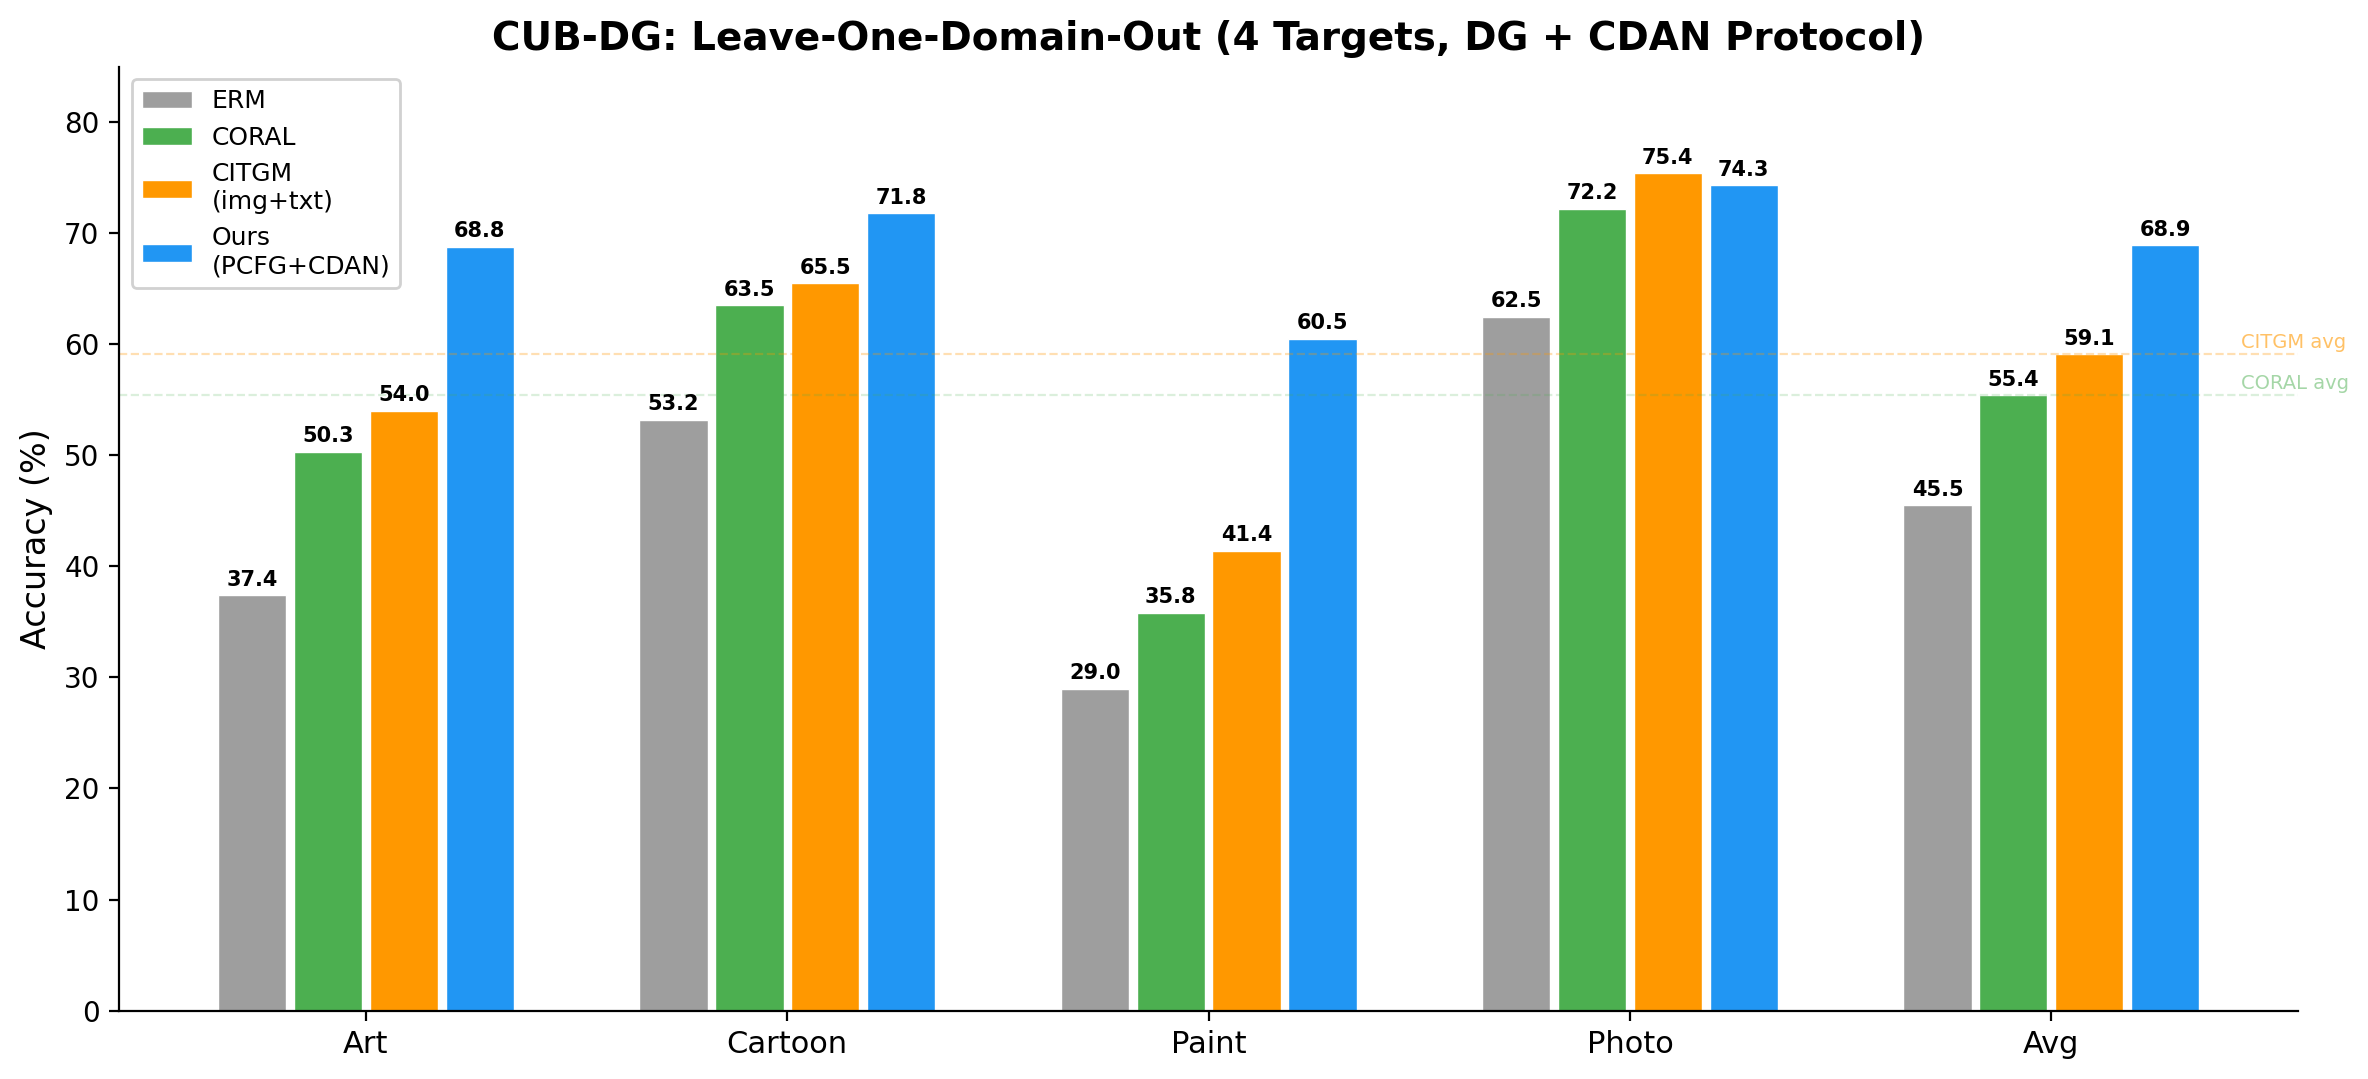
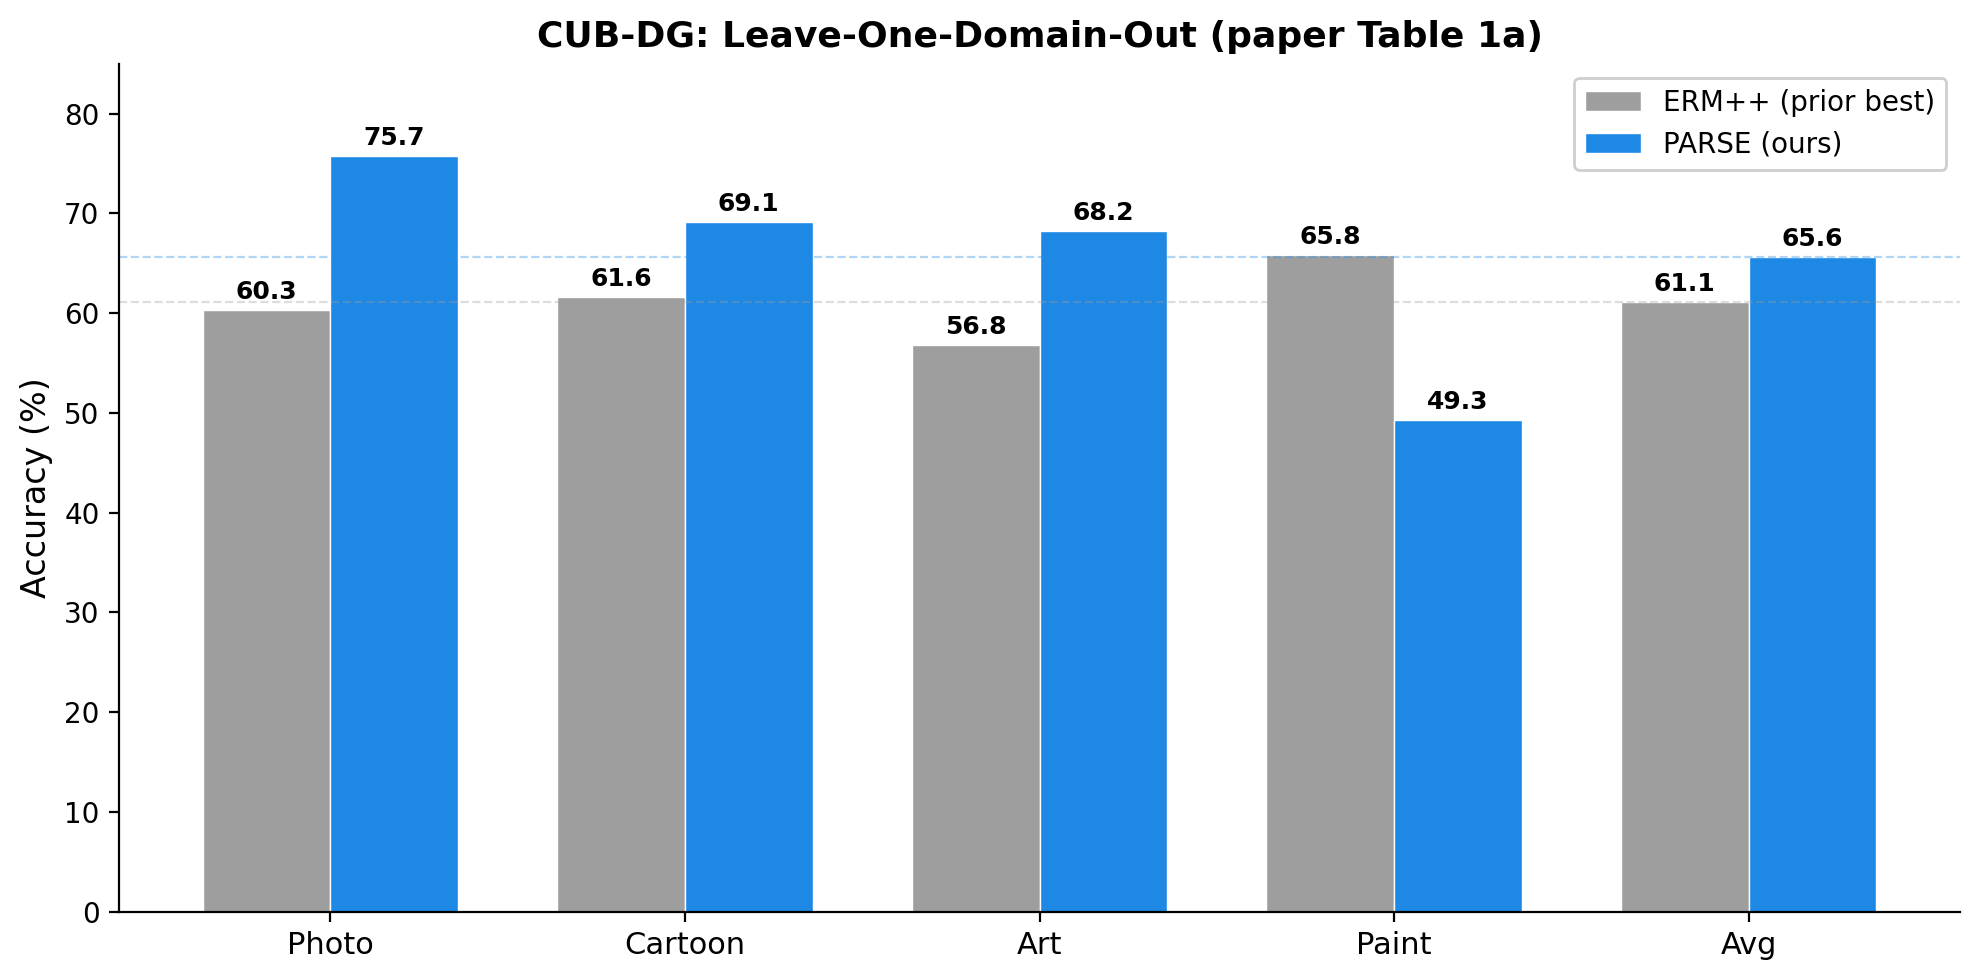
Blog: align with paper, replace fig2 with predicate-arity ablation
- Fix ERM++ Photo: 67.1 -> 60.3 in fig1 and main results table (paper Table 1a)
- Convert main results table to HTML with full per-domain numbers for CORAL/GVRT/ERM++/PARSE
- Replace fig2_pcfg_vs_nopcfg with fig2_arity_ablation (paper Table 2a): No Rel / Binary / +Ternary / +Quaternary / All x 5 domains
- Update grammar section to K=16, add ternary (tri/turn) and quaternary (orient/eqdist) predicates per paper
- Replace fixed-344 production claim with dynamic M ~ 130k, structural compaction (99.3pp pruned, ~956 active per class) per paper Table 2b
- Fix lingering \\ math escapes in aligned blocks

diff --git a/_posts/2026-03-21-neurosymbolic-dg.md b/_posts/2026-03-21-neurosymbolic-dg.md
@@ -8,7 +8,7 @@ header_image: /assets/img/neurosymbolic_dg/thumbnail.png
 
 Here's a question [Duy](https://github.com/Duy-Nguyen-Duc) and I were kicking around: what if you combined a small DSL with a neural network classifier and the classifier head itself *happened* to be domain-invariant by construction? Not as a replacement for adaptation methods like CDAN, but as a much stronger starting point for them.
 
-Turns out it works. We replaced a linear classification layer with a probabilistic context-free grammar over spatial layout programs. The grammar scores spatial relations between detected parts, and those relations don't change when you go from photos to paintings.
+Turns out it works. We replaced a linear classification layer with a probabilistic context-free grammar over spatial layout programs. The grammar scores spatial relations between detected parts, and those relations don't change when you go from photos to paintings. We call this **PARSE** (Primitive-Aware Relational Structure for domain gEneralization); paper at [arXiv:[phone redacted]](https://arxiv.org/abs/[phone redacted]).
 
 Code: [datvo06/NeuroSymbolicDG](https://github.com/datvo06/NeuroSymbolicDG). Checkpoints: [HuggingFace](https://huggingface.co/datvo06/neurosymbolic-da-results).
 
@@ -30,53 +30,102 @@ ResNet-50
 
 The concept bottleneck (1x1 conv + [spatial soft-argmax](https://kornia.readthedocs.io/en/latest/geometry.subpix.html)) forces the network to decompose its representation into $k=8$ spatially localized primitives. Each primitive has a location, bounding box, and confidence. No hand-designed primitive vocabulary; the primitives emerge from end-to-end training.
 
-Same backbone, same data, same everything. Swap the PCFG head for a linear classifier:
+Per the paper's Table 1a, CUB-DG accuracy by target domain:
 
-<img src="{{ '/assets/img/neurosymbolic_dg/fig2_pcfg_vs_nopcfg.png' | relative_url }}" alt="PCFG vs NoPCFG" style="max-width: 100%; height: auto;">
+<table style="border-collapse: collapse; margin: 1em 0; font-size: 0.95em;">
+  <thead>
+    <tr style="border-bottom: 2px solid #444;">
+      <th style="text-align: left; padding: 0.4em 0.8em;">Method</th>
+      <th style="padding: 0.4em 0.8em;">Photo</th>
+      <th style="padding: 0.4em 0.8em;">Cartoon</th>
+      <th style="padding: 0.4em 0.8em;">Art</th>
+      <th style="padding: 0.4em 0.8em;">Paint</th>
+      <th style="padding: 0.4em 0.8em;">Avg</th>
+    </tr>
+  </thead>
+  <tbody>
+    <tr style="border-bottom: 1px solid #ddd;">
+      <td style="padding: 0.4em 0.8em;">CORAL (<a href="https://arxiv.org/abs/1607.01719">Sun &amp; Saenko, 2016</a>)</td>
+      <td style="text-align: center; padding: 0.4em 0.8em;">72.2</td>
+      <td style="text-align: center; padding: 0.4em 0.8em;">63.5</td>
+      <td style="text-align: center; padding: 0.4em 0.8em;">50.3</td>
+      <td style="text-align: center; padding: 0.4em 0.8em;">35.8</td>
+      <td style="text-align: center; padding: 0.4em 0.8em;">55.5</td>
+    </tr>
+    <tr style="border-bottom: 1px solid #ddd;">
+      <td style="padding: 0.4em 0.8em;">GVRT</td>
+      <td style="text-align: center; padding: 0.4em 0.8em;">74.6</td>
+      <td style="text-align: center; padding: 0.4em 0.8em;">64.2</td>
+      <td style="text-align: center; padding: 0.4em 0.8em;">52.2</td>
+      <td style="text-align: center; padding: 0.4em 0.8em;">37.0</td>
+      <td style="text-align: center; padding: 0.4em 0.8em;">57.0</td>
+    </tr>
+    <tr style="border-bottom: 1px solid #ddd;">
+      <td style="padding: 0.4em 0.8em;">ERM++ (prior best)</td>
+      <td style="text-align: center; padding: 0.4em 0.8em;">60.3</td>
+      <td style="text-align: center; padding: 0.4em 0.8em;">61.6</td>
+      <td style="text-align: center; padding: 0.4em 0.8em;">56.8</td>
+      <td style="text-align: center; padding: 0.4em 0.8em;"><strong>65.8</strong></td>
+      <td style="text-align: center; padding: 0.4em 0.8em;">61.1</td>
+    </tr>
+    <tr style="background: #f3f5fb;">
+      <td style="padding: 0.4em 0.8em;"><strong>PARSE</strong></td>
+      <td style="text-align: center; padding: 0.4em 0.8em;"><strong>75.7</strong></td>
+      <td style="text-align: center; padding: 0.4em 0.8em;"><strong>69.1</strong></td>
+      <td style="text-align: center; padding: 0.4em 0.8em;"><strong>68.2</strong></td>
+      <td style="text-align: center; padding: 0.4em 0.8em;">49.3</td>
+      <td style="text-align: center; padding: 0.4em 0.8em;"><strong>65.6</strong></td>
+    </tr>
+  </tbody>
+</table>
 
-| Method | Art | Cartoon | Paint | Avg |
-|--------|-----|---------|-------|-----|
-| NoPCFG+CDAN | 52.4% | 56.2% | 45.7% | 51.4% |
-| **PCFG+CDAN** | **68.8%** | **71.8%** | **60.5%** | **67.0%** |
-| Grammar $\Delta$ | +16.4 | +15.6 | +14.8 | **+15.6** |
++4.5pp over ERM++ on average. The gain concentrates on the harder stylistic domains (Photo, Cartoon, Art); Paint regresses (PARSE 49.3 vs ERM++ 65.8), which I discuss later. Now let me explain what that classifier head actually is.
 
-+15.6pp from changing the classifier head. The gap is remarkably consistent across targets. Now let me explain what that classifier head actually is.
+Same backbone, same data, same everything. Vary the predicate arities the head can use:
+
+<img src="{{ '/assets/img/neurosymbolic_dg/fig2_arity_ablation.png' | relative_url }}" alt="Predicate-arity ablation" style="max-width: 100%; height: auto;">
 
 ## The grammar
 
-A standard classifier ends with a linear layer: backbone features $\to$ class logits. We replace that with a PCFG over a small layout DSL. The DSL has two sorts of terminals:
+A standard classifier ends with a linear layer: backbone features $\to$ class logits. We replace that with a PCFG over a small layout DSL. The DSL has one unary terminal and a family of relations of varying arity:
 
 - **Existence**: $\texttt{has}(j)$ returns the confidence that primitive $j$ is present, a value in $[0,1]$.
-- **Relation**: $\texttt{rel}(r, i, j)$ returns a soft score for the proposition "primitive $i$ is in spatial relation $r$ to primitive $j$."
+- **Binary relation**: $\texttt{rel}(r, i, j)$ for pairwise spatial constraints.
+- **Ternary relation**: $\texttt{rel}_3(r, i, j, k)$ for triangle / chain layouts.
+- **Quaternary relation**: $\texttt{rel}_4(r, i, j, k, \ell)$ for predicates that compare two primitive pairs.
 
-The spatial relations are scored by sigmoid/Gaussian kernels over detected primitive coordinates:
+The binary predicates are scored by sigmoid/Gaussian kernels over detected primitive coordinates:
 
 $$
 \begin{aligned}
-\texttt{above}(i, j) &= \sigma\bigl(\lambda_1 (cy_j - cy_i - m_1)\bigr) \\
-\texttt{left\_of}(i, j) &= \sigma\bigl(\lambda_2 (cx_j - cx_i - m_2)\bigr) \\
-\texttt{near}(i, j) &= \exp\bigl(-\|c_i - c_j\|^2 / 2\rho^2\bigr) \\
-\texttt{aligned\_h}(i, j) &= \exp\bigl(-(cy_i - cy_j)^2 / 2\tau_1^2\bigr) \\
-\texttt{aligned\_v}(i, j) &= \exp\bigl(-(cx_i - cx_j)^2 / 2\tau_2^2\bigr) \\
+\texttt{above}(i, j) &= \sigma\bigl(\lambda_1 (cy_j - cy_i - m_1)\bigr) \\\\
+\texttt{left_of}(i, j) &= \sigma\bigl(\lambda_2 (cx_j - cx_i - m_2)\bigr) \\\\
+\texttt{near}(i, j) &= \exp\bigl(-\|c_i - c_j\|^2 / 2\rho^2\bigr) \\\\
+\texttt{aligned_h}(i, j) &= \exp\bigl(-(cy_i - cy_j)^2 / 2\tau_1^2\bigr) \\\\
+\texttt{aligned_v}(i, j) &= \exp\bigl(-(cx_i - cx_j)^2 / 2\tau_2^2\bigr) \\\\
 \texttt{contains}(i, j) &= \sigma\bigl(\lambda_3 \min(\text{margin}_{ij})\bigr)
 \end{aligned}
 $$
 
-All parameters $(\lambda, m, \tau, \rho)$ are learnable, jointly optimized with the rest of the network. The geometry of "above" and "near" adapts to the data; we don't hand-code thresholds.
+Ternary and quaternary predicates capture geometric patterns that pairwise relations cannot easily express. The two ternary predicates are $\texttt{tri}(i, j, k)$ (interior angle of the triangle formed by three primitives) and $\texttt{turn}(i, j, k)$ (turn angle along a primitive chain). The quaternary predicates compare two primitive pairs: $\texttt{orient}(i, j, k, \ell)$ checks whether vectors $\mathbf{v}_{ij}$ and $\mathbf{v}_{k\ell}$ form a target relative angle (via a soft cosine match), and $\texttt{eqdist}(i, j, k, \ell)$ checks whether $\|\mathbf{v}_{ij}\|$ and $\|\mathbf{v}_{k\ell}\|$ have a target log-ratio. These are pose-and-scale invariants by construction.
 
-Given $k=8$ primitive types and 6 relation types, the universal grammar enumerates all possible spatial constraints:
+All shape parameters $(\lambda, m, \tau, \rho, \text{target angles, target ratios})$ are learnable and jointly optimized with the rest of the network. The *form* of each predicate is locked in but the thresholds adapt.
+
+Given $K=16$ primitives and the predicate vocabulary above, the grammar enumerates all valid spatial compositions (binary applied to ordered pairs, ternary to ordered triples, quaternary to ordered quadruples):
 
 $$
 \begin{aligned}
-\texttt{Constraint} &\to \texttt{has}(p_j) && \text{for } j \in \{0, \ldots, 7\} && \text{(8 productions)} \\
-\texttt{Constraint} &\to \texttt{rel}(r, p_i, p_j) && \text{for } r \in \mathcal{R},\; i \neq j && \text{(6 × 56 = 336 productions)} \\
-\texttt{Layout}_y &\to \texttt{choice}(\texttt{score}(w_1, c_1), \ldots, \texttt{score}(w_{344}, c_{344})) && && \text{(marginalization)}
+\texttt{Constraint} &\to \texttt{has}(p_j) \\\\
+\texttt{Constraint} &\to \texttt{rel}(r, p_i, p_j) \\\\
+\texttt{Constraint} &\to \texttt{rel}_3(r, p_i, p_j, p_k) \\\\
+\texttt{Constraint} &\to \texttt{rel}_4(r, p_i, p_j, p_k, p_\ell) \\\\
+\texttt{Layout}_y &\to \texttt{choice}\bigl(\texttt{score}(w_1, c_1), \ldots, \texttt{score}(w_M, c_M)\bigr)
 \end{aligned}
 $$
 
-344 productions total. Each class $y$ has its own weight vector $\mathbf{w}_y \in \mathbb{R}^{344}$, normalized by **sparsemax** ([Martins & Astudillo, 2016](https://arxiv.org/abs/1602.02068)). Unlike softmax, sparsemax produces *exact zeros*: each class commits to a small set of active productions (typically 4 to 17 out of 344, mean 8). The class score:
+The total number of enumerated productions $M$ depends on $K$ and on how many channels each higher-arity predicate spans; for CUB-DG, $M \approx 130{,}000$ (paper Table 2b). Each class $y$ has its own weight vector $\mathbf{w}_y \in \mathbb{R}^M$, normalized by **sparsemax** ([Martins & Astudillo, 2016](https://arxiv.org/abs/1602.02068)). Sparsemax produces *exact zeros*, so each class commits to a small set of active productions: on CUB-DG, structural compaction prunes 99.3% of weights and leaves ~956 active per class on average (paper Table 2b). The class score:
 
-$$W_y(x) = \sum_{p=1}^{344} \underbrace{[\text{sparsemax}(\mathbf{w}_y)]_p}_{\text{grammar weight}} \cdot \underbrace{\beta_p(x)}_{\text{spatial score}}$$
+$$W_y(x) = \sum_{p=1}^{M} \underbrace{[\text{sparsemax}(\mathbf{w}_y)]_p}_{\text{grammar weight}} \cdot \underbrace{\beta_p(x)}_{\text{predicate activation}}$$
 
 If you squint, this is a linear classifier over *spatial relation features* with sparsemax forcing each class to pick a small structural explanation. Here's what that looks like on a real image, a Painted Bunting, from detected primitives through heatmaps to the grammar derivation:
 